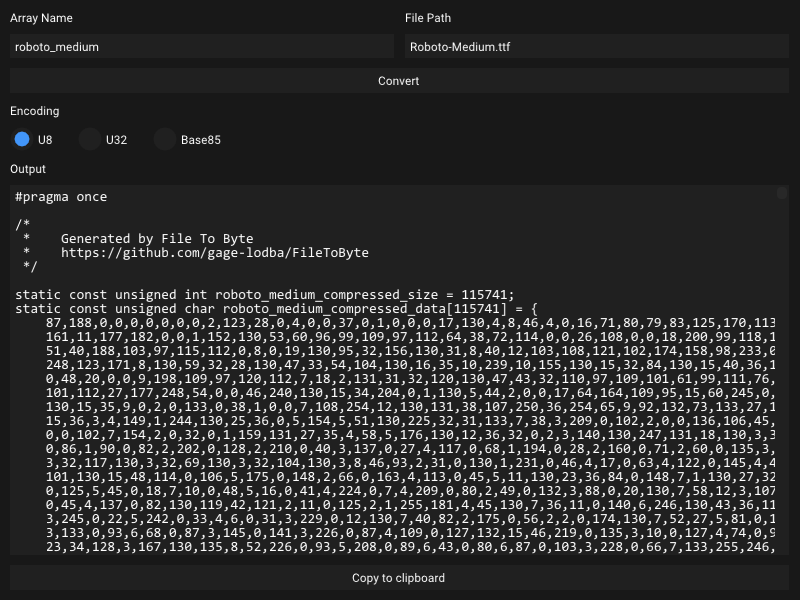
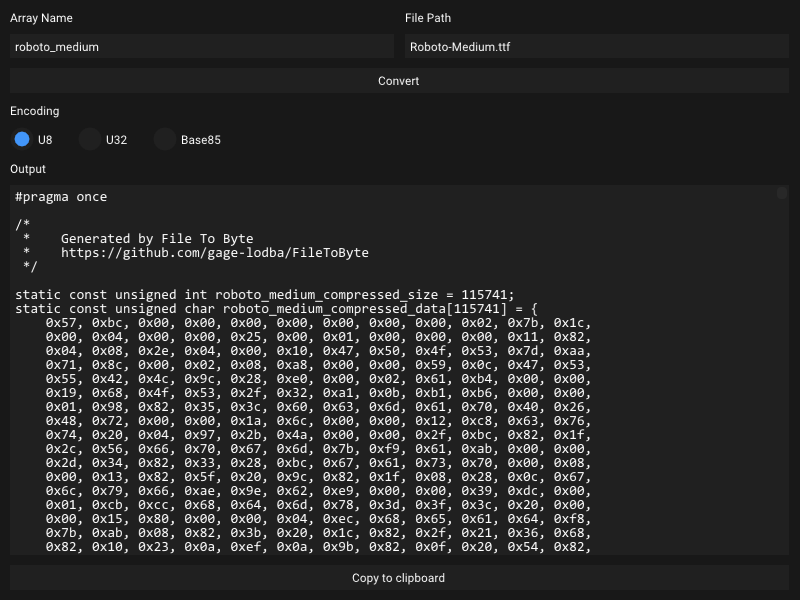
Small changes Formatted output Update preview image

Changed region(s): [[0.0625, 0.51, 0.9688, 0.93]]

diff --git a/source/FTB.cpp b/source/FTB.cpp
@@ -29,27 +29,28 @@ namespace {
 // covering `compressed_sz` bytes of `compressed` (which is zero-padded out to
 // the next 4-byte boundary so the 32-bit reads below stay in bounds). ---
 
-// Bytes as decimal unsigned char[] — endianness-independent. Mirrors
-// binary_to_compressed_c.cpp's SourceEncoding_U8 (the reference's default).
+// Bytes as 0x-prefixed unsigned char[] — endianness-independent. Like
+// binary_to_compressed_c.cpp's SourceEncoding_U8, but emitted as two-digit hex
+// (0x00, 0x0f, 0xff, ...) instead of the reference's decimal. Padded to a fixed
+// width and wrapped at a fixed count so the columns line up into a grid.
 void emitU8(std::ostringstream &out, const std::string &symbol,
             const std::vector<char> &compressed, int compressed_sz) {
   out << "static const unsigned int " << symbol
       << "_compressed_size = " << compressed_sz << ";\n";
   out << "static const unsigned char " << symbol << "_compressed_data["
-      << compressed_sz << "] = {";
+      << compressed_sz << "] = {" << std::hex << std::setfill('0');
 
-  int column = 0;
+  constexpr int kPerLine = 12;
   for (int i = 0; i < compressed_sz; ++i) {
-    if (column == 0)
+    if (i % kPerLine == 0)
       out << "\n\t";
-    std::string token =
-        std::to_string(static_cast<unsigned char>(compressed[i])) + ",";
-    out << token;
-    column += static_cast<int>(token.size());
-    if (column >= 180)
-      column = 0;
+    out << "0x" << std::setw(2)
+        << static_cast<unsigned int>(static_cast<unsigned char>(compressed[i]))
+        << ",";
+    if (i % kPerLine != kPerLine - 1 && i != compressed_sz - 1)
+      out << ' ';
   }
-  out << "\n};\n";
+  out << std::dec << std::setfill(' ') << "\n};\n";
 }
 
 // 32-bit words as 0x........ hex — FileToByte's previous output. Endianness

diff --git a/source/FTB.h b/source/FTB.h
@@ -4,7 +4,7 @@
 // Output encoding for the generated C array, mirroring Dear ImGui's
 // binary_to_compressed_c.cpp.
 enum class Encoding {
-  U8,     // unsigned char[] of decimal bytes (reference's default since 2024;
+  U8,     // unsigned char[] of 0x-prefixed hex bytes (default;
           // endianness-independent)
   U32,    // unsigned int[] of 0x........ words (FileToByte's previous output)
   Base85, // const char[] base85 string (loads via AddFontFromMemoryCompressed

diff --git a/README.md b/README.md
@@ -30,7 +30,7 @@ compact. The generated arrays match Dear ImGui's
 
 | Encoding | Output symbol | Notes |
 | --- | --- | --- |
-| **U8** (default) | `unsigned char <name>_compressed_data[]` | Decimal bytes; endianness-independent |
+| **U8** (default) | `unsigned char <name>_compressed_data[]` | Hex bytes (`0x..`); endianness-independent |
 | **U32** | `unsigned int <name>_compressed_data[]` | `0x........` words; endianness-dependent |
 | **Base85** | `const char <name>_compressed_data_base85[]` | Smallest source; load via the Base85 loader |
 